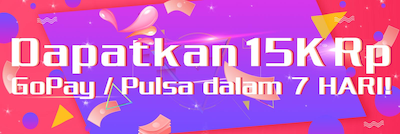
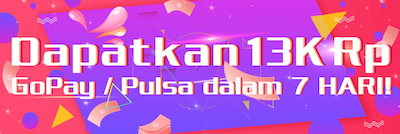
add

Changed region(s): [[0.03, 0.0299, 0.99, 0.5672]]

diff --git a/task.html b/task.html
@@ -107,14 +107,34 @@
 <div class="modal fade" id="ModalWithdraw" tabindex="-1" role="dialog" aria-labelledby="ModalNoticeTitle" aria-hidden="true">
     <div class="modal-dialog modal-dialog-scrollable modal-dialog-centered" role="document" style="border-radius: 20px;">
         <div class="modal-content" style="border-radius: 20px;">
-            <div class="modal-body">
-                <dl>
-                    <dd style="margin-bottom: 20px">Complete two tasks per day for 7 days, you will receive a total of 300 coins in rewards.</dd>
-                    <ul class="noticeul">
-                        <li class="noticeli">Complete the two tasks of the day, coins will be automatically sent to your account.</li>
-                        <li class="noticeli">Task must be completed on the same day.</li>
-                    </ul>
-                </dl>
+            <div>
+                <button type="button" class="close" data-dismiss="modal" aria-label="Close" style="height: 40px; width: 60px">
+                    <span aria-hidden="true">&times;</span>
+                </button>
+            </div>
+            <div class="modal-body" style="padding-top: 0" align="center">
+                <p style="font-size: 1rem">You have accumulated <span id="EarnMoneySpan" style="font-weight: 600"></span> now.</p>
+                <div class="progress" style="width: 88%;">
+                    <div class="progress-bar" id="progressbar" role="progressbar" aria-valuenow="60" aria-valuemin="0" aria-valuemax="100" style="width: 0%; background-color: #F76B1C"><span class="sr-only"></span></div>
+                </div>
+                <div align="left" style="margin-top: 6px">
+                    <p id="MinWithdrawP" style="font-size: 0.4rem; color: crimson; margin-left: 6%"></p>
+                </div>
+                <div>
+                    <p style="font-size: 0.9rem; margin-left: 6%; margin-bottom: 10px; text-align: left">Platform:</p>
+                    <div class="btn-group" data-toggle="buttons">
+                        <button class="btn btn-primary">GCash</button>
+                        <button class="btn btn-primary">Mobile Loads</button>
+                    </div>
+                </div>
+                <div>
+                    <p style="font-size: 0.9rem; margin-left: 6%; margin-bottom: 10px; text-align: left">Amount:</p>
+                    <div class="btn-group" data-toggle="buttons">
+                        <button class="btn btn-primary" id="MinamountNum"></button>
+                        <button class="btn btn-primary" id="MaxamountNum"></button>
+                    </div>
+                </div>
+                <button class="btn" style="background: linear-gradient(to right, #F45D82, #6C81F8);border-radius: 20px;border: 0px;color: white; margin-top: 25px; width: 60%;" onclick="doWithdraw()">Withdraw</button>
             </div>
         </div>
     </div>
@@ -429,6 +449,7 @@
     }
 
     var challengeList = 0;
+    var canWithDraw = false;
     getChallengeList();
     function getChallengeList() {
         $.ajax({
@@ -446,20 +467,41 @@
                 challengeList = 0;
                 var completedCount = 0;
                 var challengeVersion = 1;
-                // if (data.data.challengeType) {
-                //     challengeVersion = data.data.challengeType;
-                // }
+                if (data.data.challengeType) {
+                    challengeVersion = data.data.challengeType;
+                }
                 let currentStatus = data.data.status; //1进行中 2中断 3 已完成未领奖 4已完成已领奖
                 var backgroundsize = '110%';
                 if (challengeVersion == 1) {
                     $('#Challengebanner').attr('src', 'img/Challenge_banner_default_1.png');
                 }  else if (challengeVersion == 2) {
                     backgroundsize = '100%';
+                    let earnmoney = data.data.moneyCoin + data.data.withdrawCoin + data.data.withdrawingCoin;
+                    var persent = 0;
                     if (regionCode == 'id') {
                         $('#Challengebanner').attr('src', 'img/Challenge_banner_id_2.png');
+                        persent = Math.max(0, earnmoney/13000);
+                        $('#EarnMoneySpan').html(earnmoney + '&nbsp;Rp');
+                        $('#MinWithdrawP').text('*Minimum withdrawal 6000 Rp.');
+                        $('#MinamountNum').text('6000 Rp');
+                        $('#MaxamountNum').text('13000 Rp');
+                        if (earnmoney >= 6000) {
+                            canWithDraw = true;
+                        }
                     } else {
                         $('#Challengebanner').attr('src', 'img/Challenge_banner_ph_2.png');
+                        persent = Math.max(0, earnmoney/50);
+                        $('#EarnMoneySpan').html(earnmoney + '&nbsp;PHP');
+                        $('#MinWithdrawP').text('*Minimum withdrawal 25 PHP.');
+                        $('#MinamountNum').text('25 PHP');
+                        $('#MaxamountNum').text('50 PHP');
+                        if (earnmoney >= 25) {
+                            canWithDraw = true;
+                        }
                     }
+                    var persentStr = Number(persent*100).toFixed(2);
+                    persentStr += '%';
+                    document.getElementById('progressbar').style.width = persentStr;
                 }
                 if (currentStatus == 4) {
                     $('#ChallengeComplete').show();
@@ -757,6 +799,24 @@
                 $('#alert').html(desc);
                 $('#ModalAlert').modal('show');
                 break;
+        }
+    }
+
+    // $(function() {
+    //     $("#MinamountNum .btn").click(function(){
+    //         $(this).button('loading').delay(1000).queue(function() {
+    //         });
+    //     });
+    // });
+    // $(function() {
+    //     $("#MaxamountNum .btn").click(function(){
+    //         $(this).button('loading').delay(1000).queue(function() {
+    //         });
+    //     });
+    // });
+
+    function doWithdraw() {
+        if (canWithDraw) {
         }
     }
 
